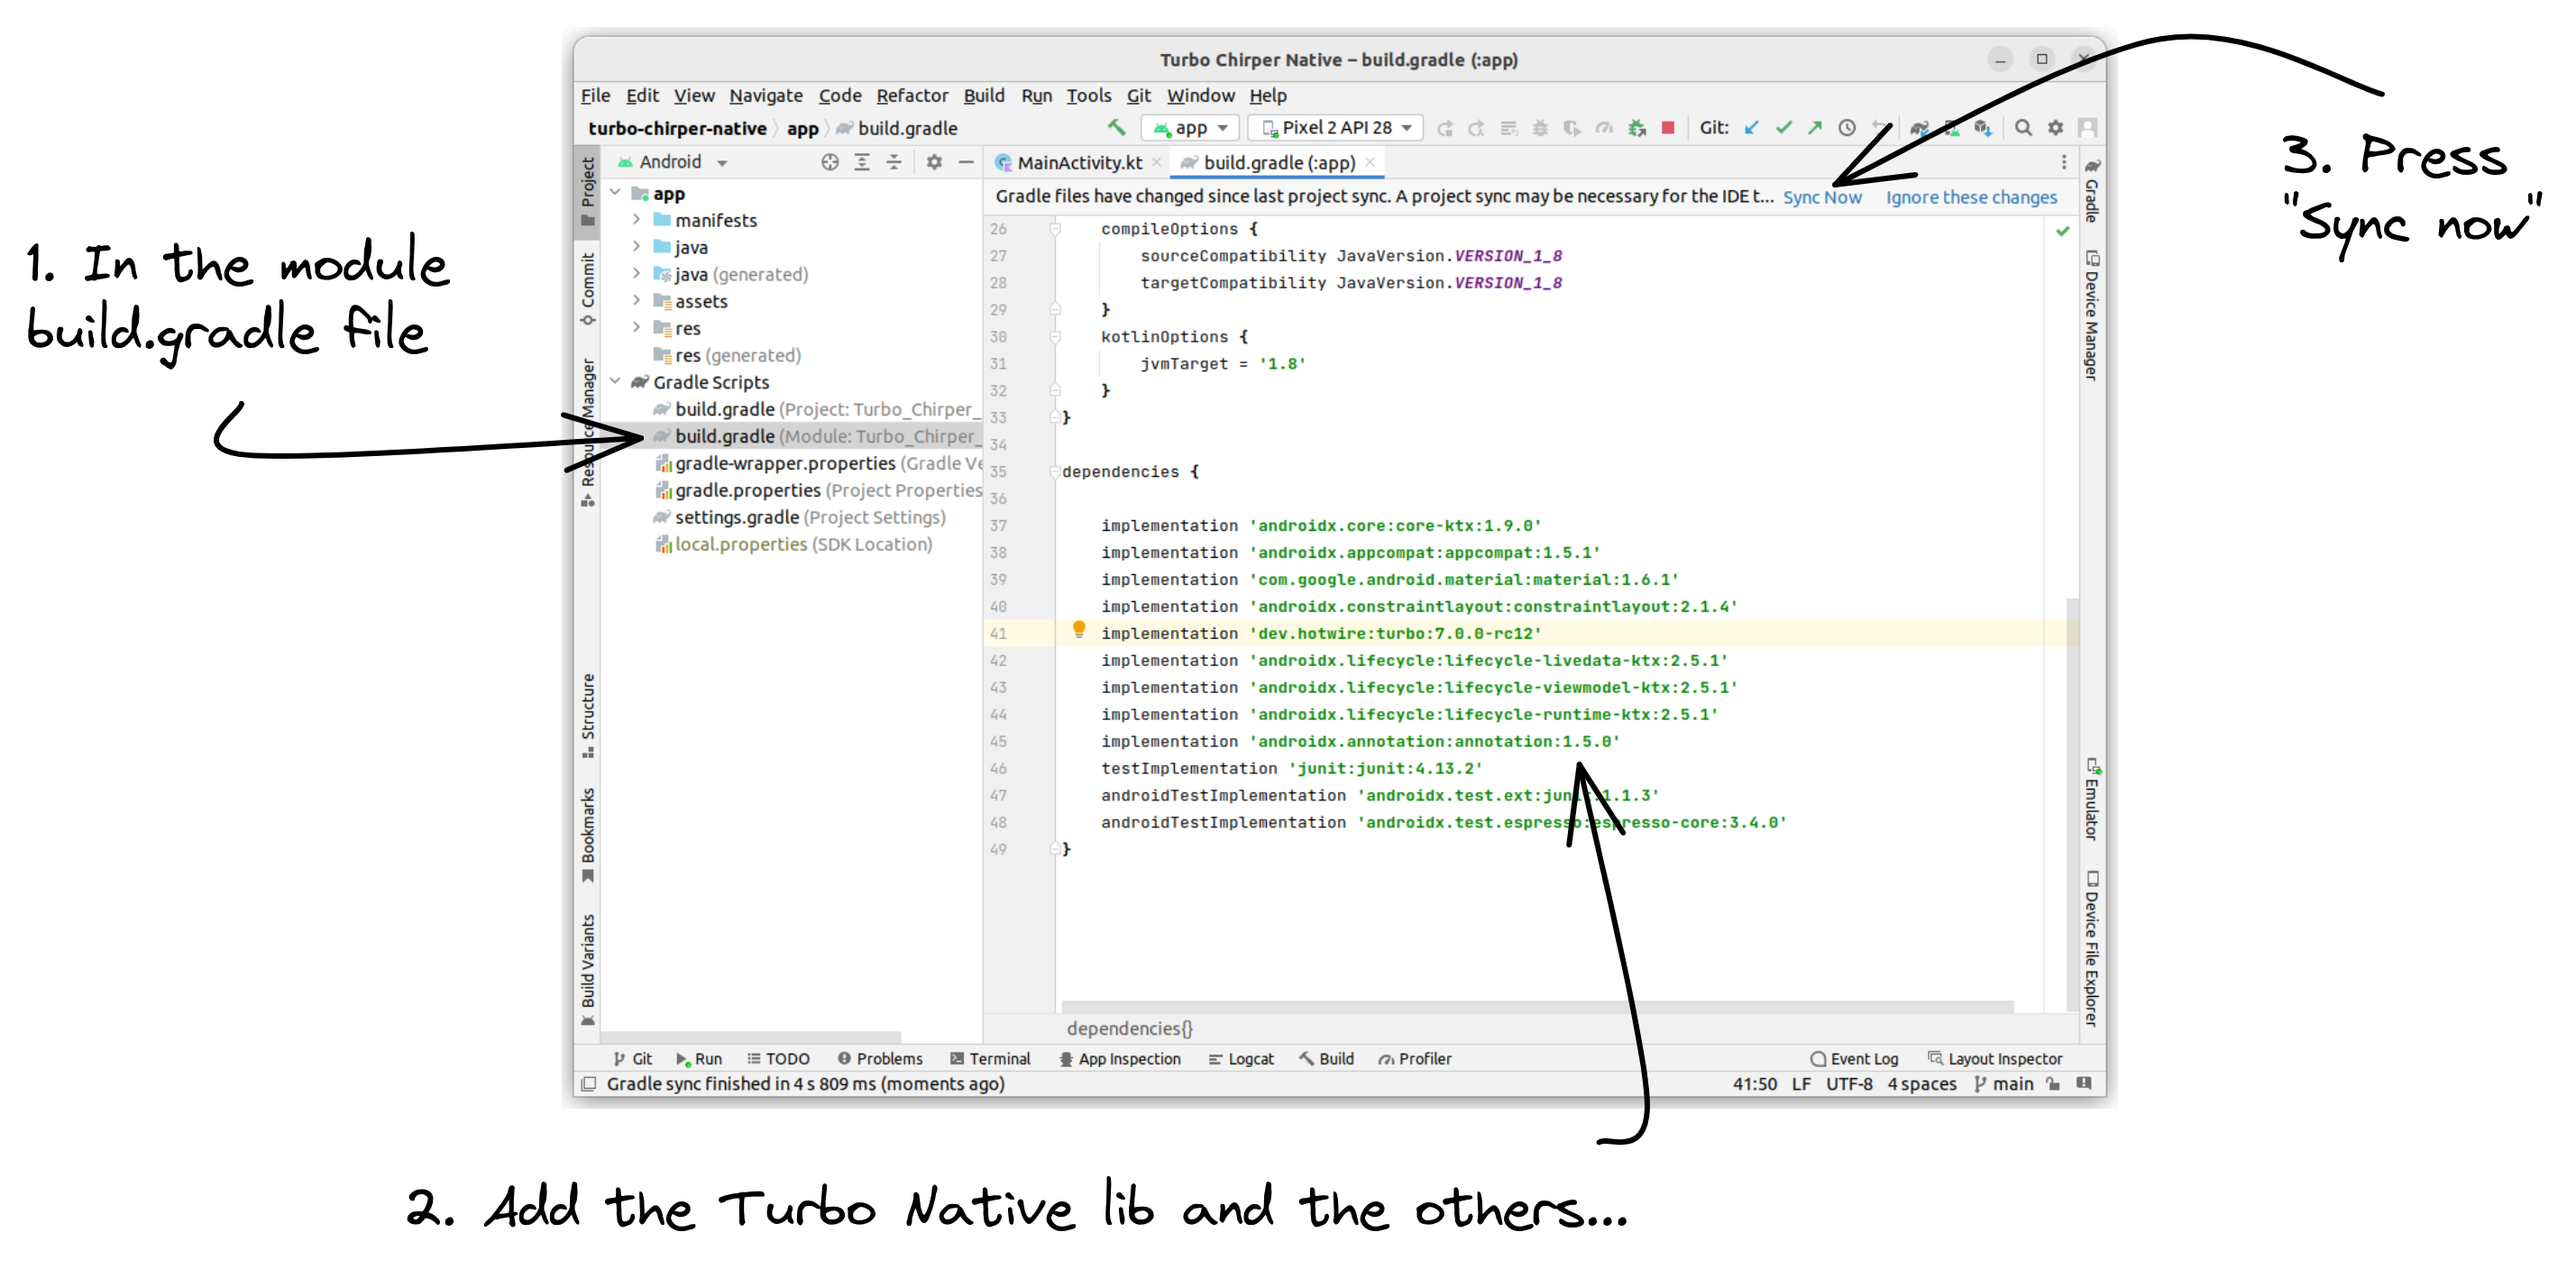
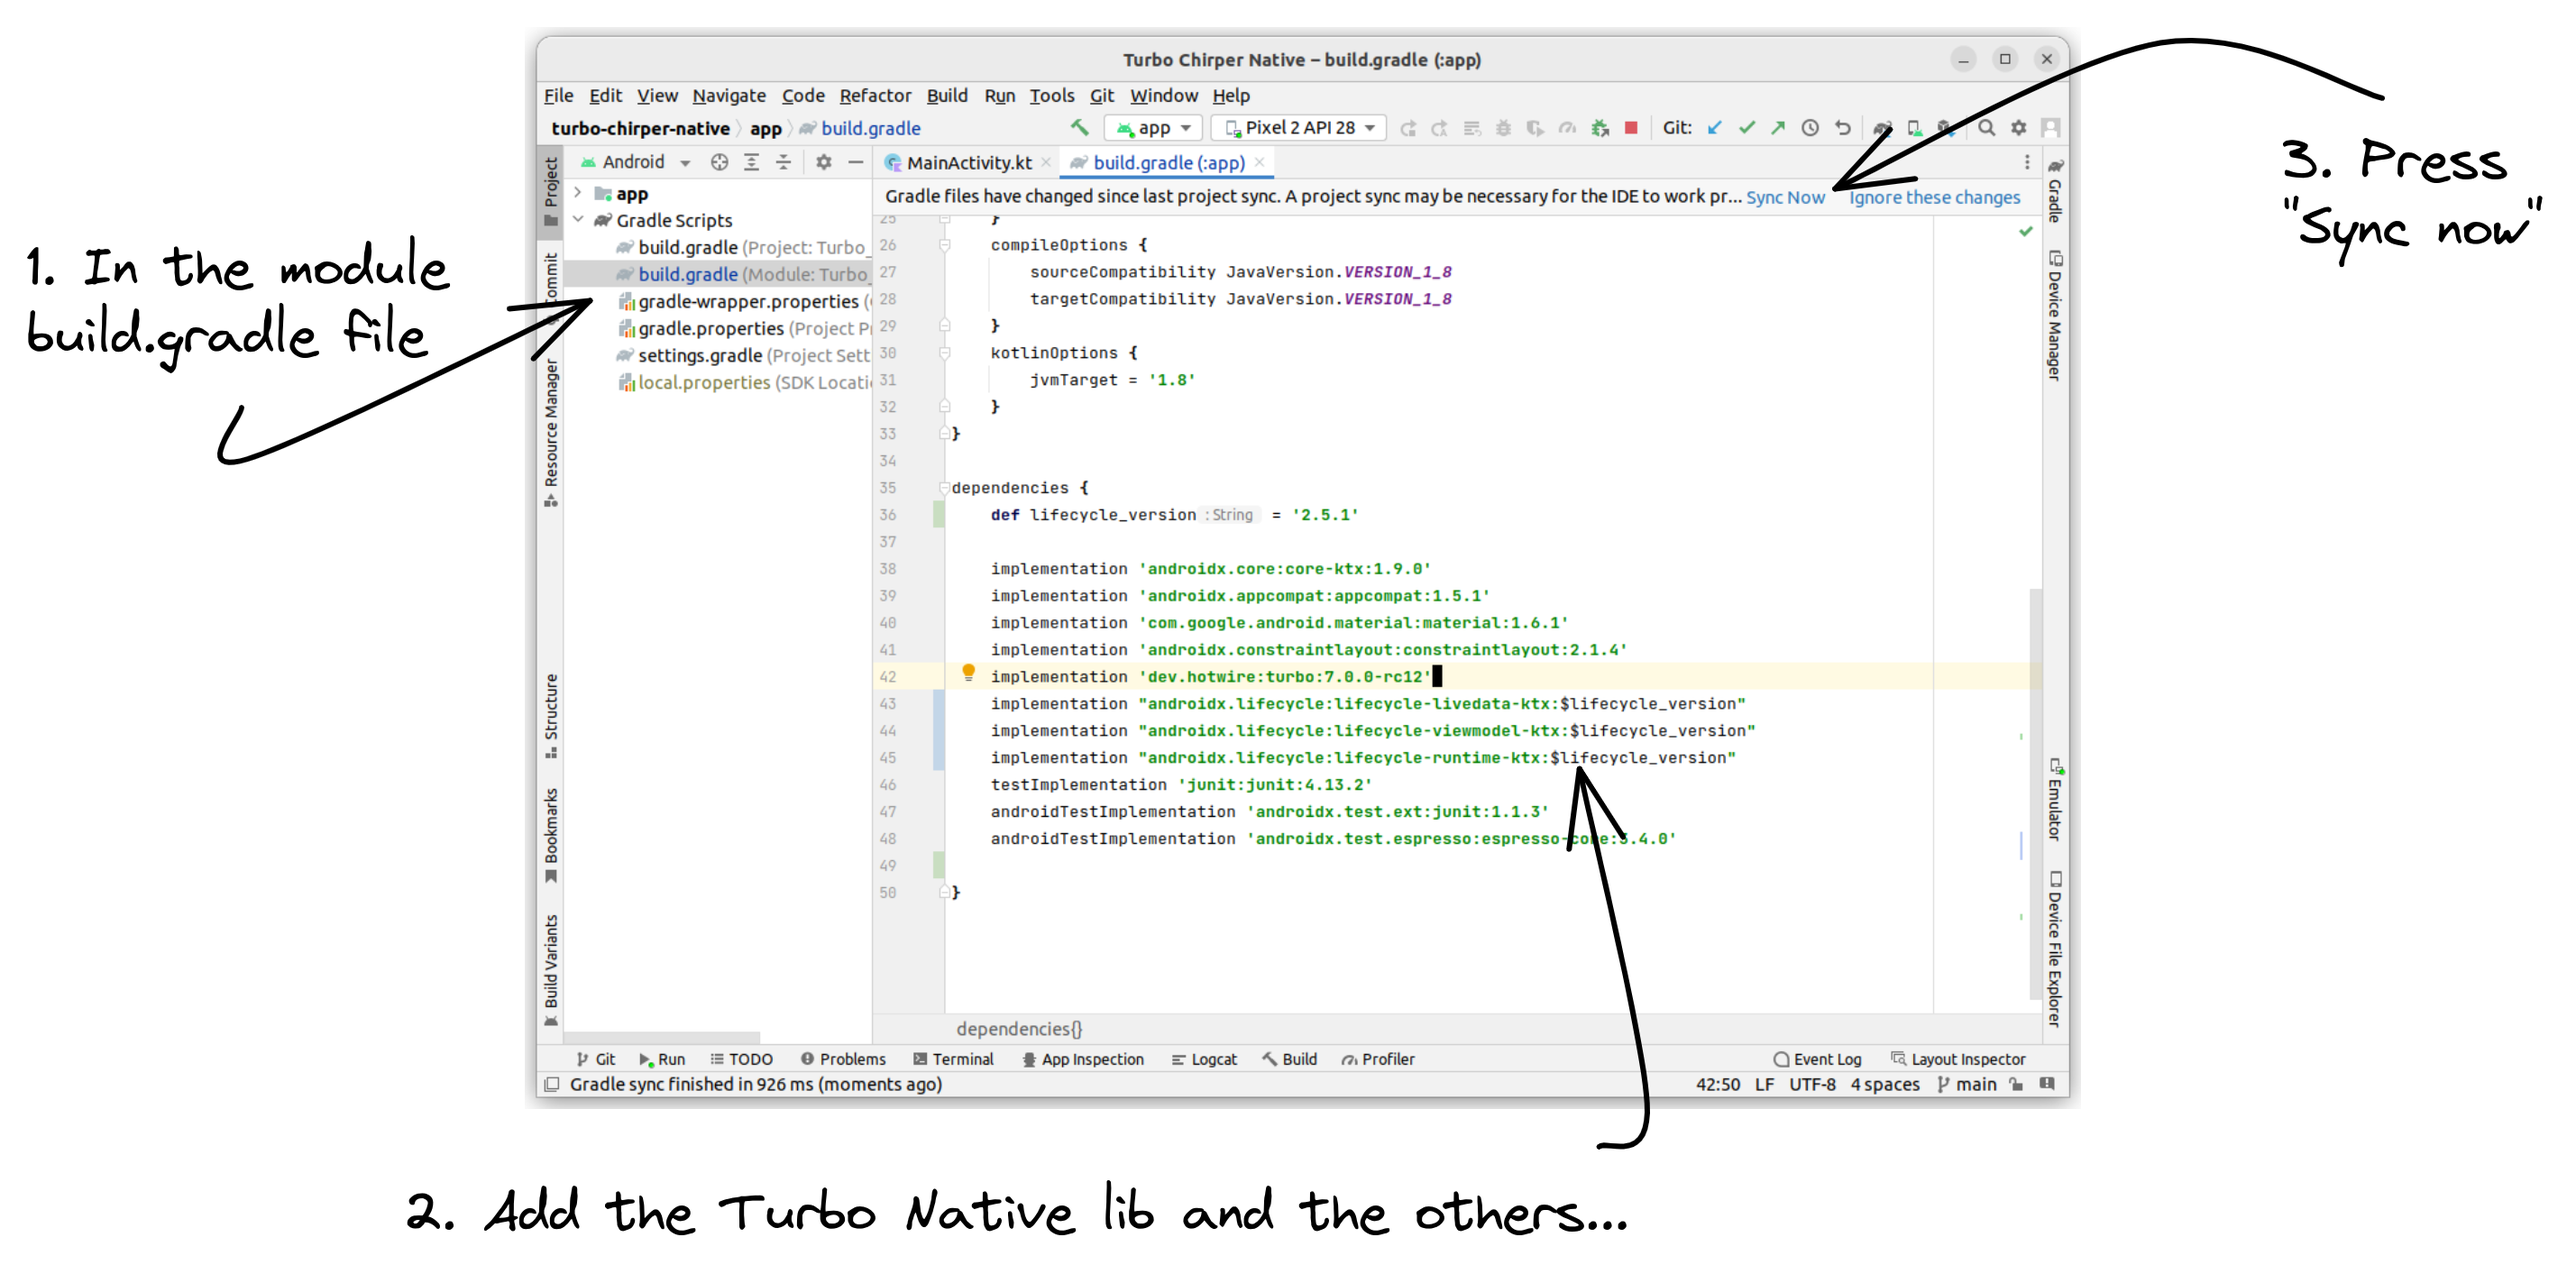
Tweaks the native setup docs

diff --git a/resources/docs/native-setup.md b/resources/docs/native-setup.md
@@ -97,16 +97,16 @@ android {
 }
 
 dependencies {
+    def lifecycle_version = '2.5.1'
 
     implementation 'androidx.core:core-ktx:1.9.0'
     implementation 'androidx.appcompat:appcompat:1.5.1'
     implementation 'com.google.android.material:material:1.6.1'
     implementation 'androidx.constraintlayout:constraintlayout:2.1.4'
     implementation 'dev.hotwire:turbo:7.0.0-rc12' // [tl! add:start]
-    implementation 'androidx.lifecycle:lifecycle-livedata-ktx:2.5.1'
-    implementation 'androidx.lifecycle:lifecycle-viewmodel-ktx:2.5.1'
-    implementation 'androidx.lifecycle:lifecycle-runtime-ktx:2.5.1'
-    implementation 'androidx.annotation:annotation:1.5.0' // [tl! add:end]
+    implementation "androidx.lifecycle:lifecycle-livedata-ktx:$lifecycle_version"
+    implementation "androidx.lifecycle:lifecycle-viewmodel-ktx:$lifecycle_version"
+    implementation "androidx.lifecycle:lifecycle-runtime-ktx:$lifecycle_version" // [tl! add:end]
     testImplementation 'junit:junit:4.13.2'
     androidTestImplementation 'androidx.test.ext:junit:1.1.3'
     androidTestImplementation 'androidx.test.espresso:espresso-core:3.4.0'
@@ -193,8 +193,8 @@ class MainSessionNavHostFragment : TurboSessionNavHostFragment() {
 There's a lot going on here, and this code doesn't even work yet. Let's go piece by piece.
 
 1. The `startLocation` property should point to your app's default home page. In our case, it's the `/chirps` page. It could be the `/dashboard`, but we don't have anything there yet;
-2. The `registeredActivities` method should return an empty list of activities in our case. That's only used when we have more than one activity in our app, which isn't our case;
-3. The `registeredFragments` method will return a list of all fragments in our app. It's currently empty, but we'll use it in a bit;
+2. The `registeredActivities` method is only used when we have more than one activity in our app, which isn't our case, so we return an empty list;
+3. The `registeredFragments` method will return a list of all fragments in our app to build the navigation graph. It's currently empty, but we'll use it in a bit;
 4. The `pathConfigurationLocation` returns the location to the path configuration JSON files. This file will have some app specific configurations which can be used for things like feature toggles, but it's also going to have the navigation configuration where we're going to specify which fragments will be used based on the URL pattern (more on that later). Our app should must ship with a default `configuration.json` file, but we could also provide a remote URL for the file that we could control dynamically from our backend server;
 5. We're also configuring the WebView to use the `Turbo Native Android` User Agent header so we can detect in the backend that the request is coming from a Turbo Native client (see more [here](https://turbo-laravel.com/docs/1.x/turbo-native))
 
@@ -441,10 +441,12 @@ Now, it looks a little better. If you try to login, you should see the app looks
 
 ![App Running Chirps Home](/images/native/setup-app-running-chirps-home.png)
 
-There are a bunch of things we can improve here. Some of the interactions we built for the web don't really make sense in a mobile UX point-of-view.
+There are a bunch of things we can improve here. Some of the interactions we built for the web don't really make sense in a mobile UX point-of-view. For instance:
 
-For instance, adding a Chirp inline. Or editing a Chirp inline. These features would usually be done in a native modal screen instead of showing the forms inline. Also, we're currently showing the web navbar at the top of the page, but that's not that useful on mobile, as menu bars and dropdowns like that kind of breaks the illusion of native screens. Same goes for the edit/delete Chirp dropdown. And right now we're only authenticating users inside the WebView using Cookies. However, it's not uncommon to need a fully native screen here and there to enhance the mobile experience. For that, we would need to setup some API routes and handle authentication, for instance.
+* Adding a Chirp inline. Or editing a Chirp inline. These features would usually be done in a native modal screen instead of showing the forms inline
+* We're currently showing the web navbar at the top of the page, but that's not that useful inside the mobile app (it's still useful for users visiting our webapp from mobile device's browsers), as menu bars and dropdowns like that kind of breaks the illusion of native screens. Same goes for the edit/delete Chirp dropdown
+* Right now we're only authenticating users inside the WebView using Cookies. However, it's not uncommon to need a fully native screen here and there to enhance the mobile experience. For that, we would need to setup some API routes and handle authentication
 
-We're gonna solve all that!
+And we're gonna solve all that!
 
 [Continue to native auth screens and Laravel Sanctum...](/native-auth-with-sanctum)
